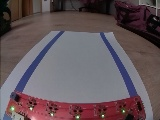
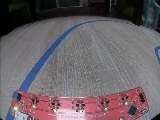
camcar first test drive

diff --git a/cameracar.py b/cameracar.py
@@ -39,6 +39,7 @@ class CameraCar(BaseCar):
         lines = cv2.HoughLinesP(img_edges,  1, np.pi / 180, threshold=30, minLineLength=25, maxLineGap=10) # extern Input ?
         #zu entscheiden, welche angpasst Bild soll gespecihert werden
         cv2.imwrite("/home/pi/Desktop/git/C2C_PP_02/pictures_modified/Bild_angepasst.jpg", img_edges)
+        print(lines)
         return lines, img
         #plt.imshow(img)
 
@@ -102,21 +103,42 @@ class CameraCar(BaseCar):
         picture_path = f"/home/pi/Desktop/git/C2C_PP_02/pictures/Bild_{picture_index}_{diffangle}.jpg"
         cv2.imwrite(picture_path, img)
         
+        
+        
+    def video_handler(self, lower_blue_input=[90, 60, 60], upper_blue_input=[130, 255, 255]):
+        # while True:
+            video_stream = self.camera.get_frame()
+            video_small = cv2.resize(video_stream, None, fx=0.25, fy=0.25) # 50% prozent vom originalen Bild, fx, fy als parameter
+            video_cropped = video_small.copy()[40:90, :, :] #40:90 und 20:150 als variablen oder einstellbar
+            video_hsv = cv2.cvtColor(video_cropped,cv2.COLOR_BGR2HSV)
+            lower_blue = np.array(lower_blue_input)
+            upper_blue = np.array(upper_blue_input)
+            video_filtered = cv2.inRange(video_hsv, lower_blue, upper_blue)
+            video_edges = cv2.Canny(video_filtered, 900, 1000)
+            lines = cv2.HoughLinesP(video_edges,  1, np.pi / 180, threshold=30, minLineLength=25, maxLineGap=10) # extern Input ?
+            return lines
+
    
-#main()
+if __name__ == "__main__":
 
-front = FrontWheels()
-back = BackWheels()
-cam = Camera(devicenumber = 0,
-            buffersize = 10,
-            skip_frame = 0,
-            height = 480,
-            width = 640,
-            flip = True,
-            )
+    front = FrontWheels()
+    back = BackWheels()
+    cam = Camera(devicenumber = 0,
+                buffersize = 10,
+                skip_frame = 0,
+                height = 480,
+                width = 640,
+                flip = True,
+                )
 
 
-cam_car = CameraCar(front,back,cam, [])
-lines, img = cam_car.picture_handler()
+    cam_car = CameraCar(front,back,cam, [])
+    cam_car.drive(30,90)
+    while True:
+        lines = cam_car.video_handler()
+        diffangle = cam_car.angle_calc(lines)
+        cam_car.drive(new_angle=diffangle)
+        time.sleep(0.5)
 
-cam_car.angle_calc(lines)
+    # lines, img = cam_car.picture_handler()
+    # cam_car.angle_calc(lines)
